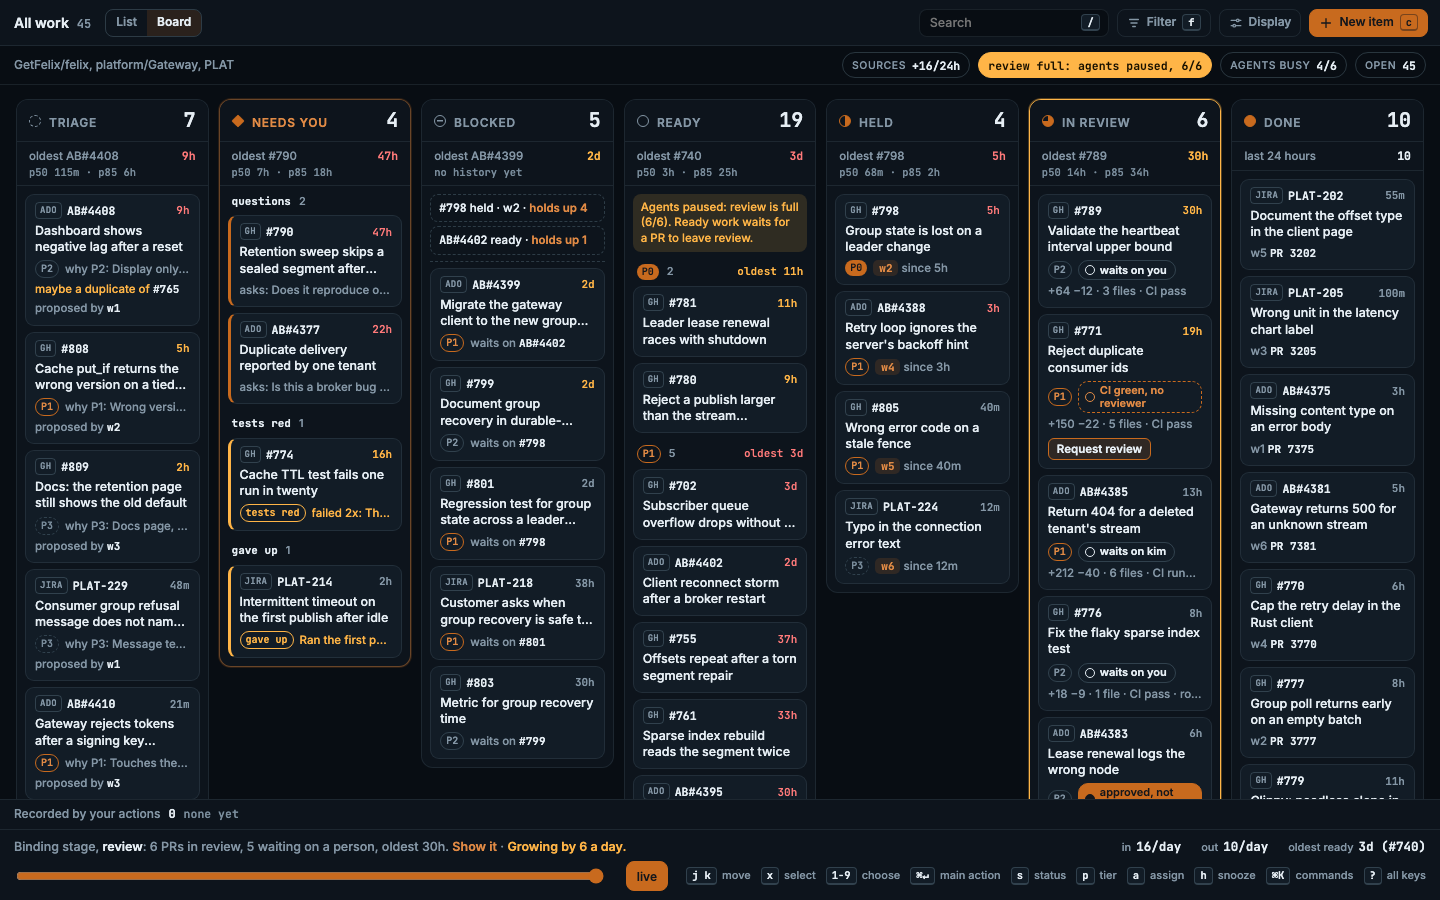
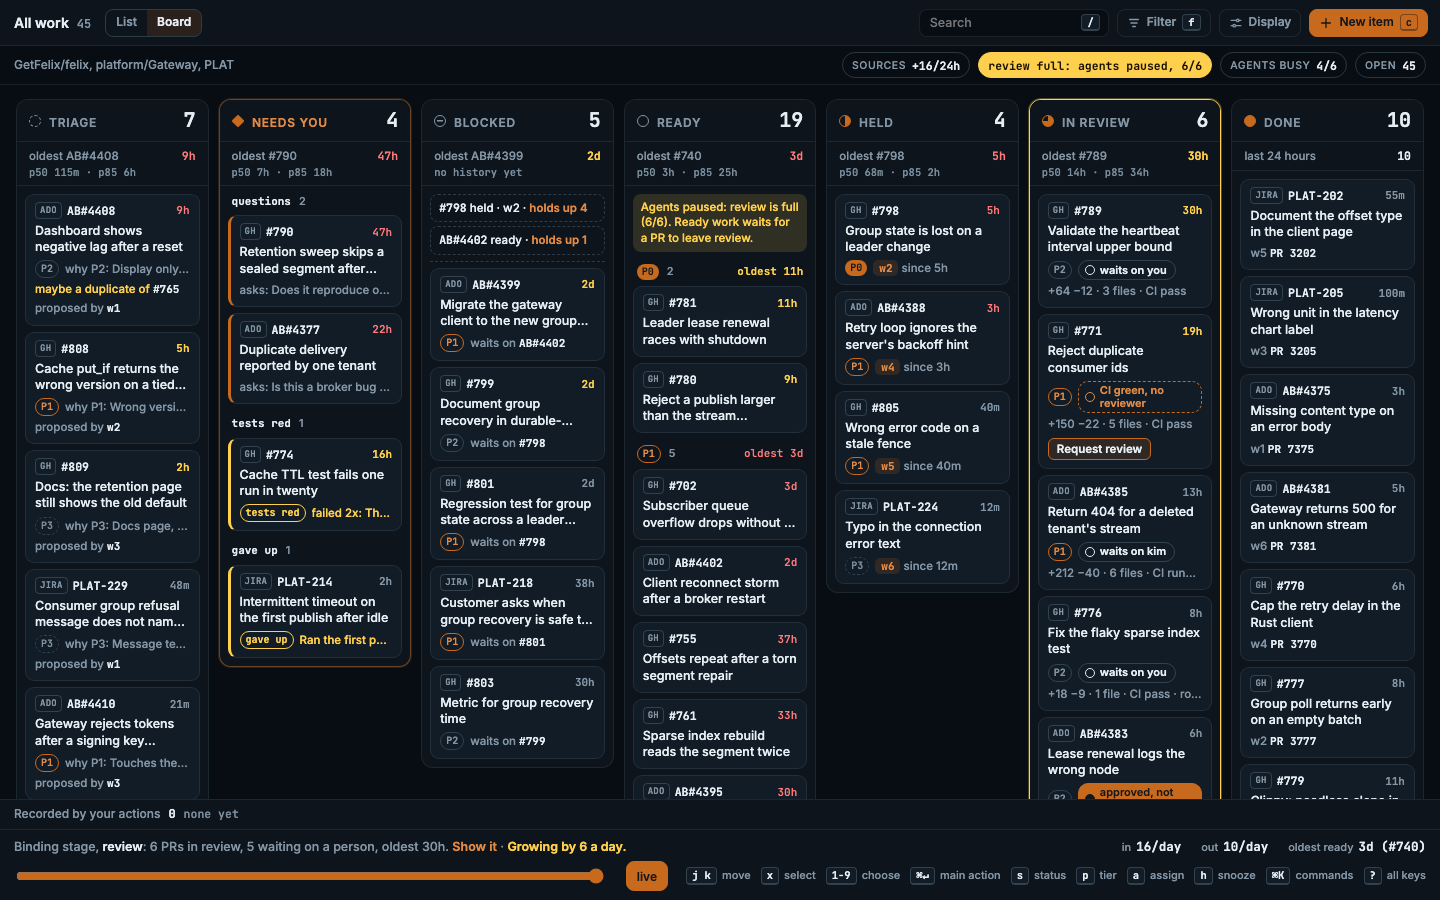
Move the warn colour away from the KBL amber accent

diff --git a/prototype/intake-frame.html b/prototype/intake-frame.html
@@ -25,10 +25,10 @@
     --accent-ink: #e08a45;
     /* Chart series for agent-side time. Amber in a chart means a person, so the other side cannot be the accent. */
     --series: #7f9cb8;
-    --amber: #ffb547;
+    --amber: #ffd04d;
     --red: #ff7a7a;
     --on-amber: #1a1200;
-    --amber-soft: hsla(38, 100%, 64%, 0.14);
+    --amber-soft: hsla(45, 100%, 65%, 0.14);
     --on-accent: #14171c;
     --mark: #eceae6;
     color-scheme: dark;
@@ -48,10 +48,10 @@
     --accent-soft: rgba(164, 82, 15, 0.12);
     --accent-ink: #9a4a0c;
     --series: #4d6b88;
-    --amber: #b36f00;
+    --amber: #786700;
     --red: #c8302f;
     --on-amber: #ffffff;
-    --amber-soft: hsla(38, 100%, 45%, 0.14);
+    --amber-soft: hsla(52, 100%, 24%, 0.14);
     --on-accent: #ffffff;
     --mark: #14171c;
     color-scheme: light;

diff --git a/docs/work-tracker.md b/docs/work-tracker.md
@@ -1133,8 +1133,8 @@ what waits on the viewer, that actions append records, and that the keys above
 do what the table says.
 
 **Look.** KBL amber (`#C86A1E` dark, `#A4520F` light, with a lighter step for text on dark
-cards) is work in motion and the current selection. A yellower amber (`#FFB547` dark,
-`#B36F00` light) is for trouble the system handled. In charts that colour means a person
+cards) is work in motion and the current selection. A yellower amber (`#FFD04D` dark,
+`#786700` light) is for trouble the system handled. In charts that colour means a person
 and slate blue means agents. Red is only for a refusal, so red always means
 Felix said no. Shapes carry meaning before colour does, so the page reads in greyscale. Inter is for names and labels and
 JetBrains Mono for ids, offsets, versions, counts and money. It is dark by default

diff --git a/changelog.d/182-warn-colour.changed.md b/changelog.d/182-warn-colour.changed.md
@@ -1,0 +1,1 @@
+The warn colour is now a yellow that stays apart from the KBL amber accent: `#786700` in the light theme (5.6:1 on white) and `#FFD04D` in the dark theme. Screenshots that show warn states are re-shot.
